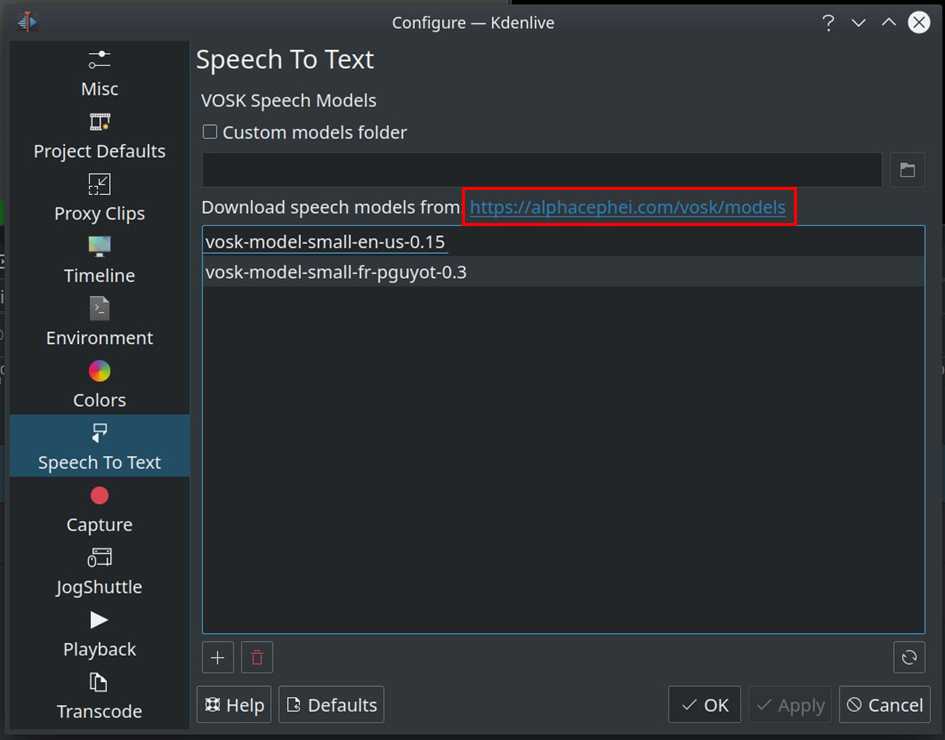
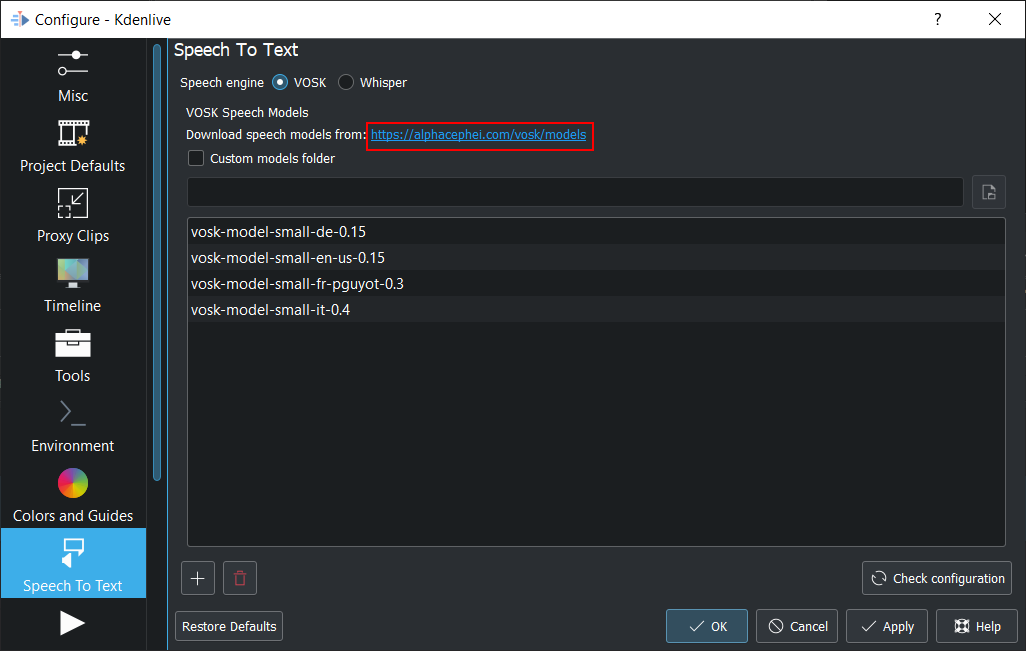
New Whisper engine for speech to text

Changed region(s): [[0.0, 0.0, 1.0, 1.0]]

diff --git a/effects_and_compositions/speech_to_text.rst b/effects_and_compositions/speech_to_text.rst
@@ -43,20 +43,34 @@ Linux
 
 On most Linux distributions python is installed by default. You can check if that is the case for you too by running ``python3 -V`` in a terminal. If python is missing just search the internet, there are lots of instructions around.
 
-To install vosk and srt open a terminal and run: ``pip3 install vosk srt``
 
 Windows
 ~~~~~~~
 
-1. Download python from https://www.python.org/downloads/ for installation on your computer.
-2. Download this batch file (:download:`Install_vosk_srt.zip </files/Install_vosk_srt.zip>`). After download a double click starts the installations.
+Download python from https://www.python.org/downloads/ for installation on your computer.
+
 
 .. _install_language:
 
-Install a language
-------------------
 
-Goto :menuselection:`Settings --> Configure Kdenlive... --> Speech to Text page`
+Speech Engines
+--------------
+
+VOSK
+~~~~
+
+Linux
+
+To install VOSK and srt open a terminal and run: ``pip3 install vosk srt``
+
+Windows
+
+Download this batch file (:download:`Install_vosk_srt.zip </files/Install_vosk_srt.zip>`). After download a double click starts the installations.
+
+Install a language
+~~~~~~~~~~~~~~~~~~
+
+Goto :menuselection:`Settings --> Configure Kdenlive... --> Speech to Text page`, select the speech engine VOSK
 
 Click on the link to get a language model.
 
@@ -68,16 +82,65 @@ Drag & drop the language you want from the vosk-model download page to the model
 .. image:: /images/Speech-to-text_Download-model.png
    :alt: download model
 
-If you have problems press on the :guilabel:`Check configuration` button.
+If you have problems or check for updates click on the :guilabel:`Check configuration` button.
+
+
+Whisper
+-------
+
+.. versionadded:: 23.04
+
+OpenAI-Whisper is a speech recognition model for general use. It is trained on a large dataset of diverse audio and is capable of performing speech translation, and language identification.
+
+Whisper is slower than VOSK on CPU, but it is more accurate than VOSK. Whisper creates sentences with punctuation marks, even in Base mode. 
+
+.. image:: /images/Speech-to-text_whisper_download.png
+   :scale: 75%
+   :alt: Whisper download dependencies
+
+When you switch first time to Whisper you have to install the missing dependencies first (about 2GB to download).
+
+.. image:: /images/Speech-to-text_whisper_installed.png
+   :scale: 75%
+   :alt: Whisper installed
+
+When all is correct configured, you get this screen.
+
+:guilabel:`Model` Select the model. More details on the `Whisper source code page <https://github.com/openai/whisper>`_ (default: Base) 
+
+:guilabel:`Language` Select the language if Autodetect is not accurate (default: Autodetect)
+
+:guilabel:`Device` To keep compatibility only CPU is available.
+
+:guilabel:`Translate text to english` This translates non English text to English while recognition.
+
+You can check for updates by clicking on :guilabel:`Check configuration`
+
 
 Speech recognition
 ------------------
 
+Select the speech engine
+~~~~~~~~~~~~~~~~~~~~~~~~
+
+.. versionadded:: 23.04
+
+Enable :menuselection:`View --> Speech Editor` menu item.
+
+.. image:: /images/Speech-to-text_select_speech-engine.png
+   :alt: change the speech engine
+
+Click on the :guilabel:`Hamburger Menu` and select :guilabel:`Configure Speech Recognition`. This brings you to :ref:`Configure Speech to Text <configure_speech_to_text>`, select the engine and click :guilabel:`OK.`  
+
+:guilabel:`Translate to english` is only available with the Whisper speech engine. It translates non English text to English while recognition.
+
 Creating subtitle by speech recognition
 ~~~~~~~~~~~~~~~~~~~~~~~~~~~~~~~~~~~~~~~
 
-.. image:: /images/Speech-to-text_Subtitle.png
+.. figure:: /images/Speech-to-text_Subtitle.png
    :alt: Speech to text subtitle
+
+   Shown with the VOSK engine
 
 1. Mark the timeline zone you want to recognize (adjust the blue line).
 
@@ -99,10 +162,12 @@ Creating clips by speech recognition
 ~~~~~~~~~~~~~~~~~~~~~~~~~~~~~~~~~~~~
 
 This is useful for interviews and other speech-related footage.
-Enable the :menuselection:`View --> Text Edit` menu item.
+Enable the :menuselection:`View --> Speech Editor` menu item.
 
-.. image:: /images/Speech-to-text_Text-Edit.png
-   :alt: Text edit
+.. figure:: /images/Speech-to-text_Text-Edit.png
+   :alt: Speech editor
+
+   Shown with the VOSK engine
 
 Select a clip in the project bin.
 
@@ -130,6 +195,8 @@ Select a clip in the project bin.
 
 Silence detection
 -----------------
+
+This works with the VOSK engine only.
 
 Open the clip in the clip monitor and open the speech editor window (:menuselection:`View --> Speech Editor`) .
 

diff --git a/user_interface/menu/settings_menu/configure_kdenlive.rst b/user_interface/menu/settings_menu/configure_kdenlive.rst
@@ -340,7 +340,7 @@ Speech To Text
 --------------
 
 .. image:: /images/Kdenlive_Configure_speech-to-text_VOSK_23-04.png
-   :width: 500px
+   :scale: 75%
    :alt: Kdenlive_Configure_speech-to-text
 
 More details about speech to text see :ref:`here <speech_to_text>`. 
